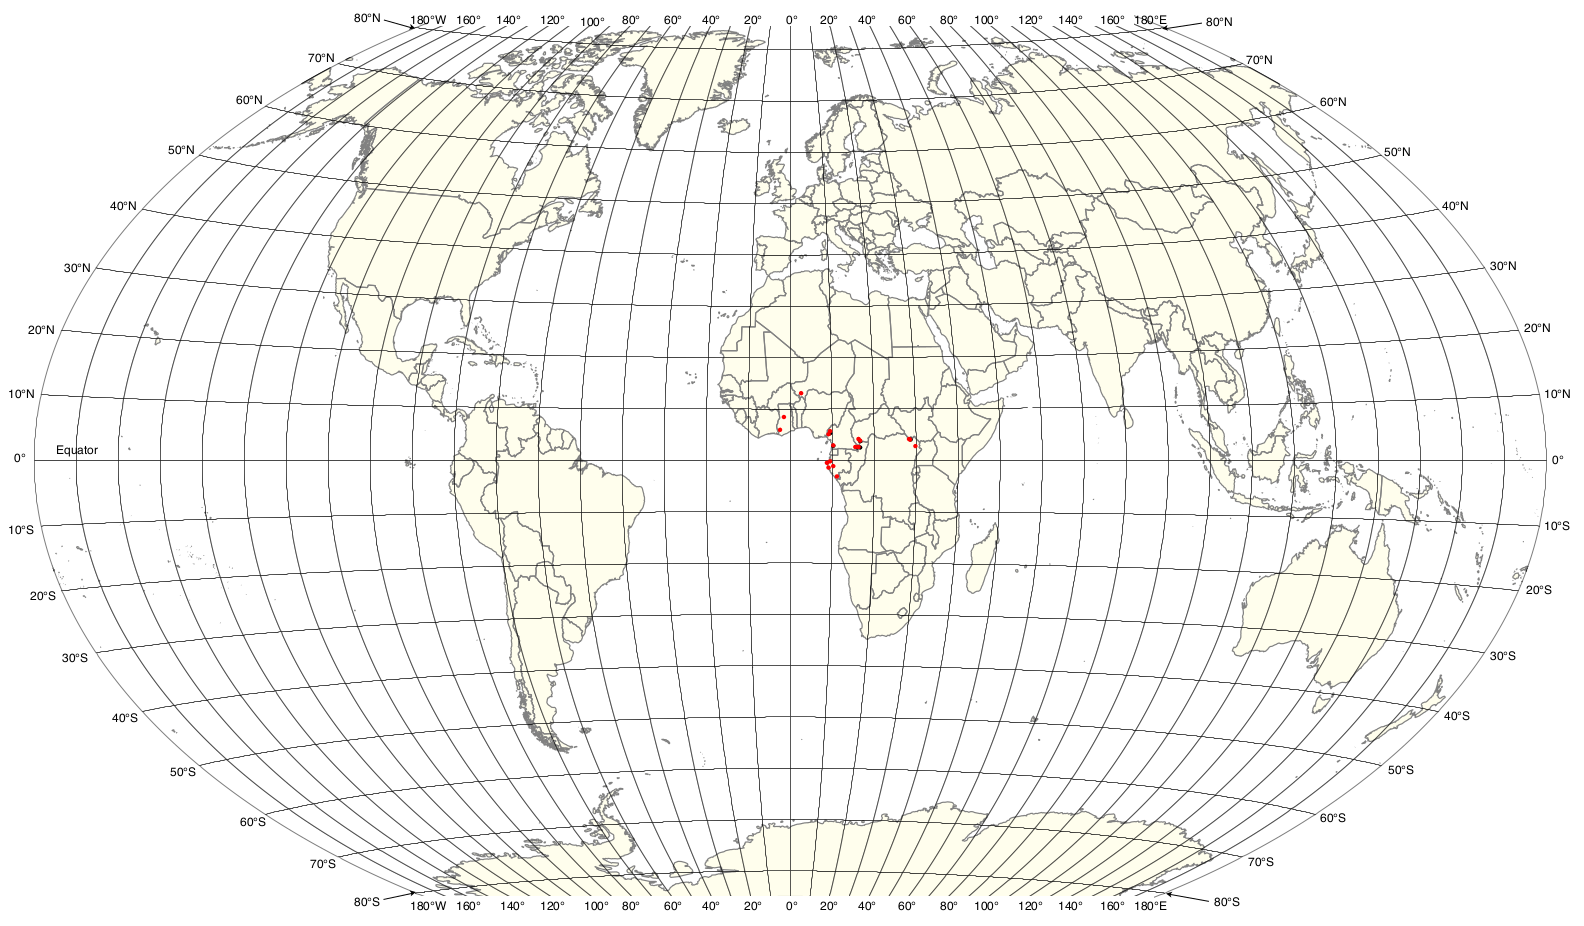
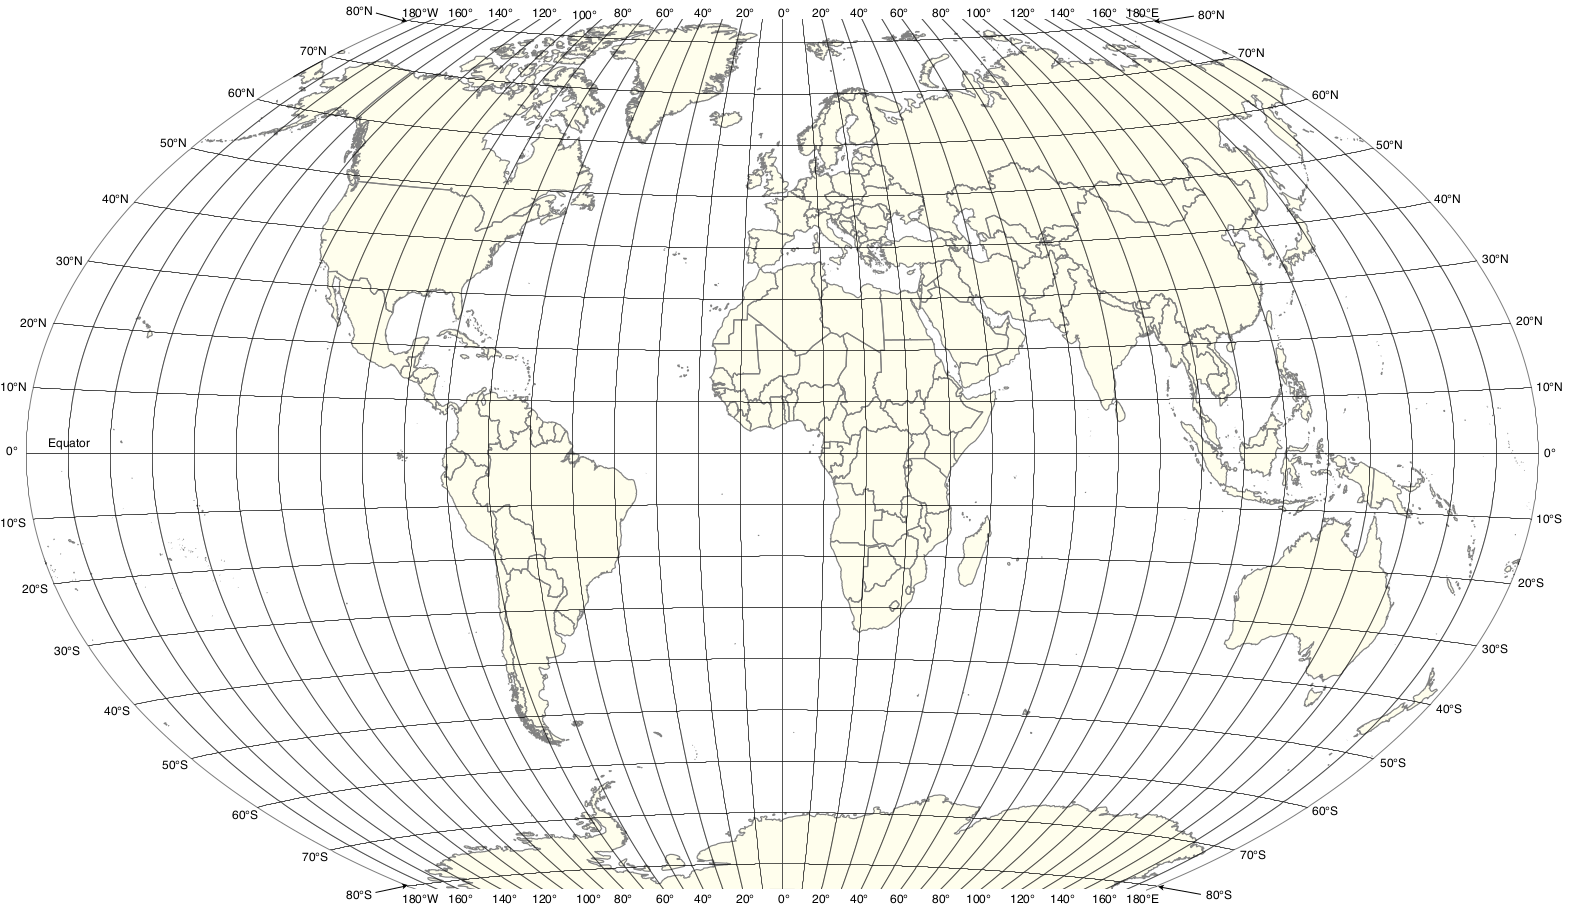
edit

Changed region(s): [[0.0, 0.0, 0.9981, 1.0]]

diff --git a/slides/slides/WhereDoesItLive/Task2Example.html b/slides/slides/WhereDoesItLive/Task2Example.html
@@ -2,10 +2,10 @@
 <div class="row">
     <div class="col-4">
 <p class="md-font">
-Open the page for your species on the <a href="https://www.inaturalist.org/observations">iNaturalist</a> website and find the map that shows where it occurs.
+On the <a href="https://www.inaturalist.org/observations">iNaturalist</a> website, go to the page for your species and find the map.
 </p>
 <p class="md-font">
-If you need help, follow the directions for task 1 or reach out to Mr. Durden.
+If you need help finding the page for your species, follow the directions for task 1 or reach out to Mr. Durden.
 </p>
     </div>
     <div class="col-8">

diff --git a/slides/slides/WhereDoesItLive/Task3Example.html b/slides/slides/WhereDoesItLive/Task3Example.html
@@ -1,10 +1,10 @@
-<h3>Task 2</h3>
+<h3>Task 3</h3>
 <div class="row">
     <div class="col-12">
 <p class="md-font">
-Draw the points onto a map with a latitude and longitude grid. See the example below:
+Draw the points onto the map with the latitude and longitude grid (We will use the grid lines to find latitudes and longitudes). See the example below:
 </p>
-        <img class="noborder" src="/static/teaching_assets/md/images/OccurrencesWithCoordinateGrid.png" style="max-width: 100%;">
+        <img class="noborder" src="/static/teaching_assets/slides/images/PlotOccurrences.png" style="max-width: 100%;">
     </div>
 </div>
 
